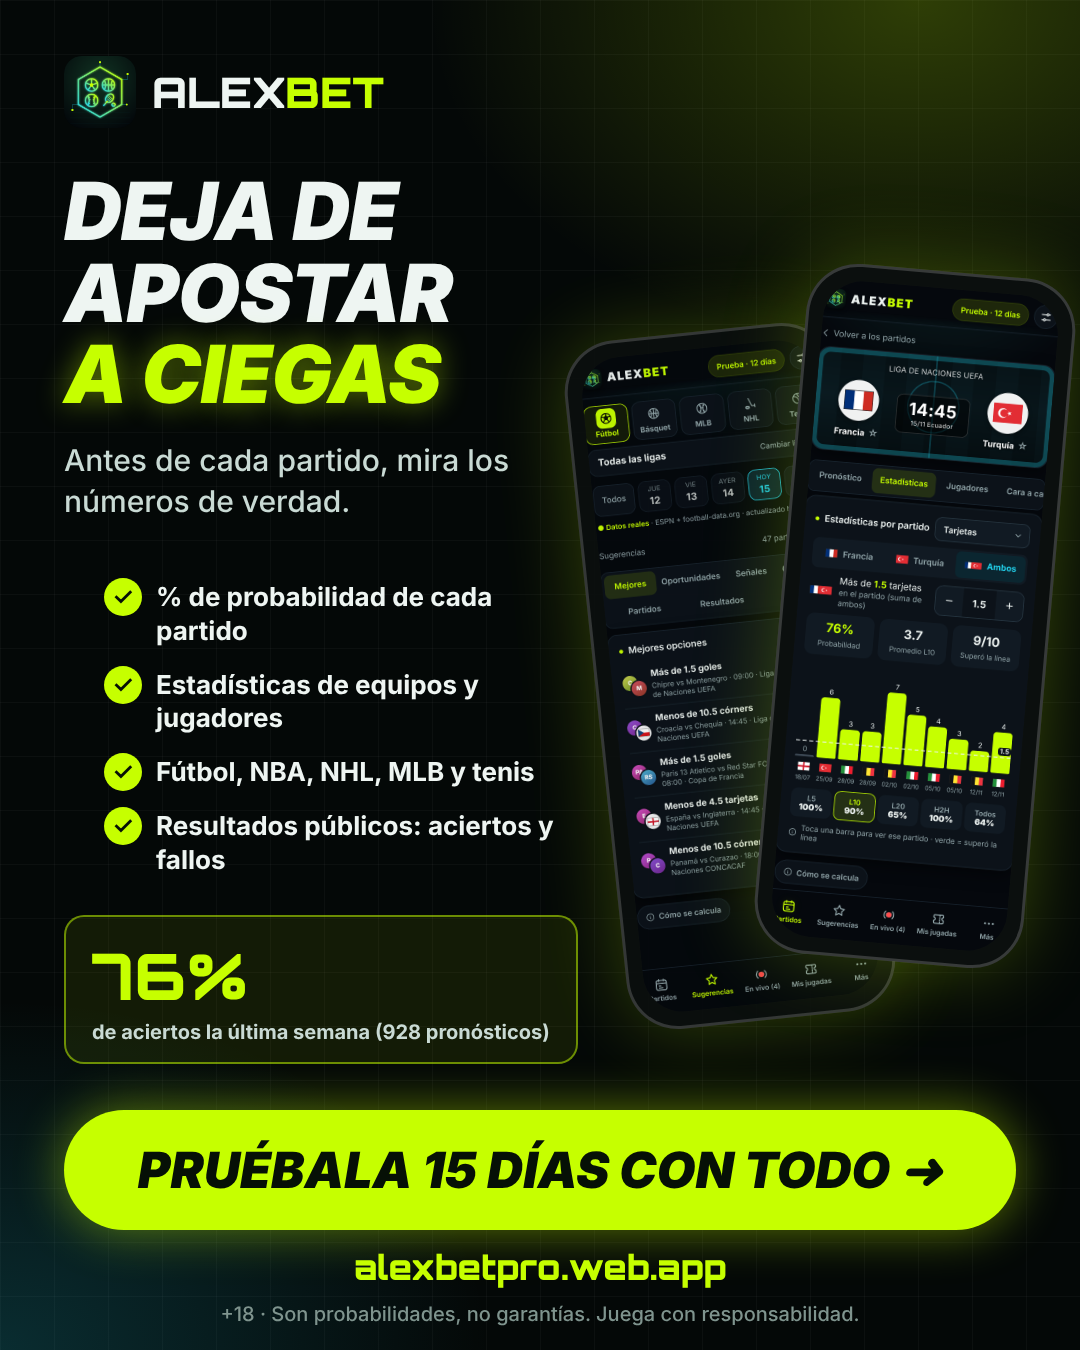
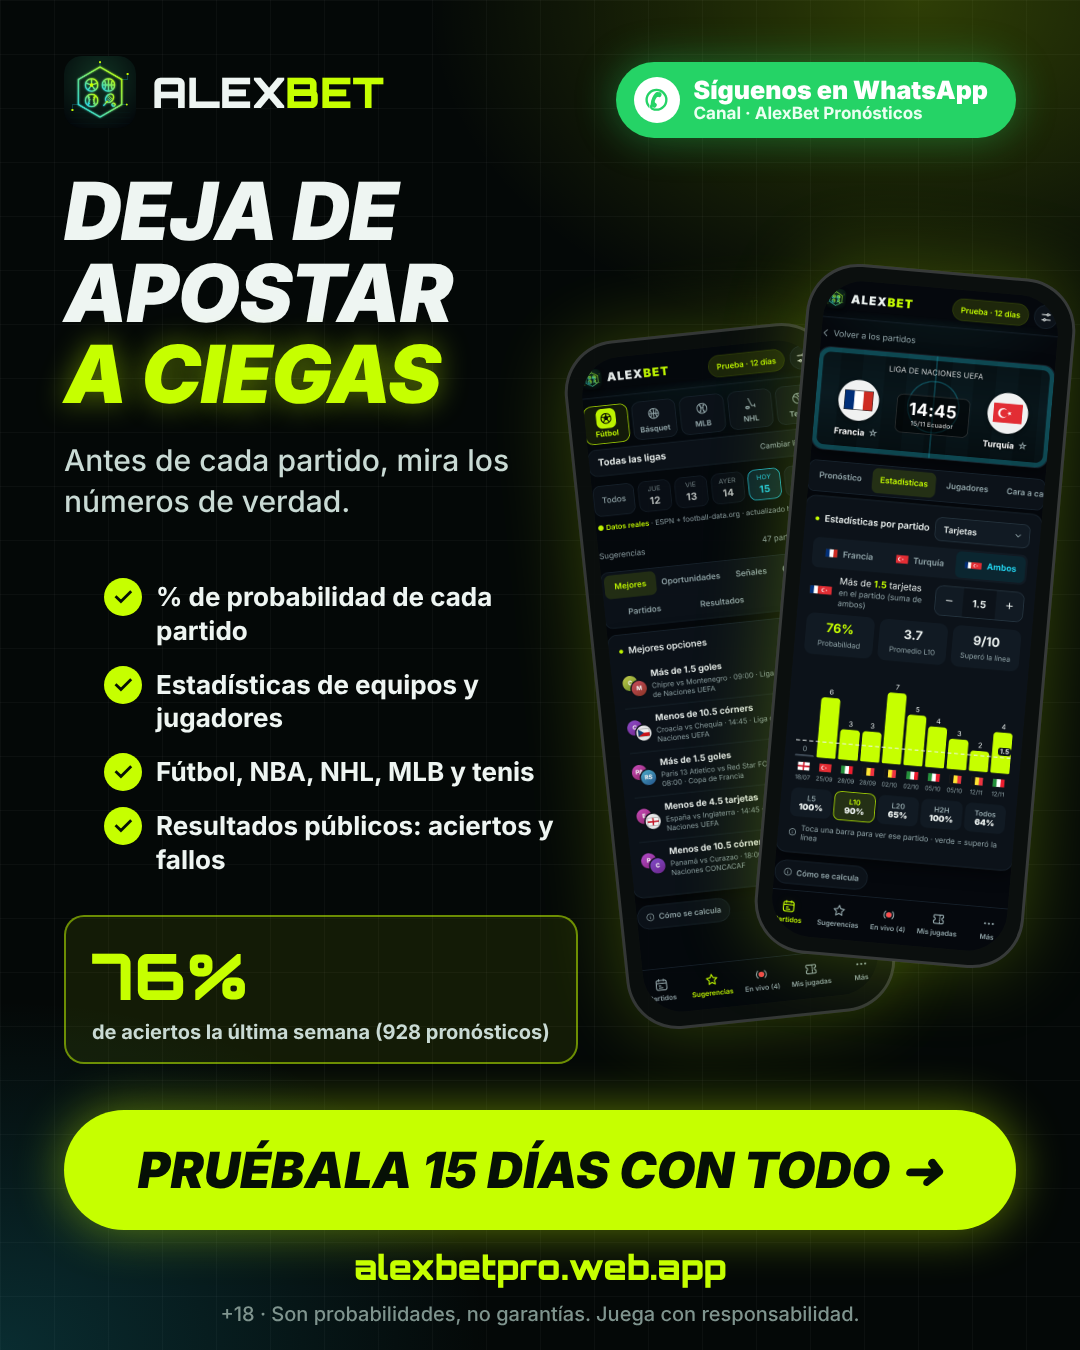
Canal de WhatsApp en el cierre de los 3 videos, en el pie de las imágenes y en la imagen de la promo
Claude-Session: https://claude.ai/code/session_012mWT85TQZDff9ySK822rSA

Changed region(s): [[0.55, 0.0311, 0.9472, 0.1244]]

diff --git a/video.js b/video.js
@@ -296,6 +296,17 @@ function escenaPick(c, S, t, D) {
   pieV(c);
 }
 
+// canal de WhatsApp: una pastilla verde al cierre de cada video
+function waBadge(c, y, k) {
+  if (k <= 0) return; c.save(); c.globalAlpha *= k; c.textAlign = 'center';
+  const W = 760, x = (VW - W) / 2, H = 132; rr(c, x, y, W, H, 66); c.fillStyle = '#25d366'; c.shadowColor = 'rgba(37,211,102,.45)'; c.shadowBlur = 36; c.fill(); c.shadowBlur = 0;
+  const cx = x + 74, cy = y + H / 2; c.beginPath(); c.arc(cx, cy, 40, 0, Math.PI * 2); c.fillStyle = '#fff'; c.fill(); // ícono: globo de chat con teléfono
+  c.beginPath(); c.moveTo(cx - 30, cy + 26); c.lineTo(cx - 40, cy + 42); c.lineTo(cx - 14, cy + 34); c.closePath(); c.fill();
+  c.beginPath(); c.arc(cx, cy, 28, 0, Math.PI * 2); c.fillStyle = '#25d366'; c.fill(); c.font = '900 34px Inter'; c.fillStyle = '#fff'; c.fillText('✆', cx, cy + 12);
+  c.fillStyle = '#fff'; c.font = '900 46px Inter'; c.fillText('Síguenos en WhatsApp', x + W / 2 + 44, y + 62); c.font = '700 30px Inter'; c.fillStyle = '#eafff1'; c.fillText('Canal · AlexBet Pronósticos', x + W / 2 + 44, y + 104);
+  c.restore();
+}
+
 function escenaCierre(c, S, t, D) {
   const a = seg(t, 0, .6), b = seg(t, .5, .7), d = seg(t, 1.1, .7);
   c.globalAlpha = a; const s = 200; if (D.logo) { c.save(); rr(c, VW / 2 - s / 2, 260, s, s, 48); c.clip(); c.drawImage(D.logo, VW / 2 - s / 2, 260, s, s); c.restore(); }
@@ -307,7 +318,7 @@ function escenaCierre(c, S, t, D) {
   }
   c.globalAlpha = d; rr(c, 120, 1180, VW - 240, 150, 75); c.fillStyle = A; c.fill();
   c.font = '900 56px Orbitron'; c.fillStyle = '#061006'; c.fillText('alexbetpro.web.app', VW / 2, 1275);
-  c.font = '700 40px Inter'; c.fillStyle = INK; c.fillText('Síguenos para las de mañana', VW / 2, 1440);
+  c.globalAlpha = 1; waBadge(c, 1365, d); c.globalAlpha = d; c.textAlign = 'center';
   rr(c, VW / 2 - 70, 1540, 140, 80, 18); c.strokeStyle = INK; c.lineWidth = 5; c.stroke(); c.font = '900 44px Orbitron'; c.fillStyle = INK; c.fillText('+18', VW / 2, 1596);
   c.font = '500 32px Inter'; c.fillStyle = DIM; c.fillText('Son probabilidades, no garantías. Juega con responsabilidad.', VW / 2, 1690);
   c.textAlign = 'left'; c.globalAlpha = 1;
@@ -448,6 +459,7 @@ export async function crearAnalisis(ctx) {
       const kb = seg(lt, .9, .5); c.globalAlpha = kb; rr(c, 250, 1090, 580, 120, 60); c.fillStyle = A; c.shadowColor = 'rgba(198,255,0,.5)'; c.shadowBlur = 40; c.fill(); c.shadowBlur = 0;
       c.fillStyle = '#061006'; c.font = '900 44px Inter'; c.textAlign = 'center'; c.fillText('Versión Premium →', 540, 1150); c.font = '700 24px Inter'; c.fillText('este y otros análisis', 540, 1188);
       c.font = '700 40px Orbitron'; c.fillStyle = A; c.fillText('alexbetpro.web.app', 540, 1290); c.font = '600 26px Inter'; c.fillStyle = DIM;
+      c.globalAlpha = 1; waBadge(c, 1400, seg(lt, 1.3, .5)); c.globalAlpha = kb; c.textAlign = 'center'; c.font = '600 26px Inter'; c.fillStyle = DIM;
       c.fillText('+18 · Análisis estadístico, no garantiza resultados.', 540, 1700); c.fillText('Juega con responsabilidad.', 540, 1740); c.textAlign = 'left'; c.globalAlpha = 1; return; }
     const prev = sc[i - 1] && !sc[i - 1].fin && sc[i - 1].img === s.img ? sc[i - 1] : null, kc = prev ? seg(lt, 0, .7) : 1;
     let cam = prev ? lc(prev.cam2 || prev.cam, s.cam, kc) : s.cam; if (s.cam2) cam = lc(s.cam, s.cam2, Math.min(1, lt / s.dur));
@@ -581,7 +593,7 @@ export async function crearRadar(ctx) {
     else { grande(c, 'DONDE HAY DATOS,', 'HAY VENTAJA.', 760, seg(lt, 0, .5), 100); c.save(); c.globalAlpha = seg(lt, .6, .5); c.textAlign = 'center'; c.font = '600 36px Inter'; c.fillStyle = INK;
       c.fillText('Cada jugador, partido a partido,', VW / 2, 1000); c.fillText('en una sola pantalla.', VW / 2, 1048);
       rr(c, 190, 1110, 700, 120, 60); c.fillStyle = A; c.shadowColor = 'rgba(198,255,0,.5)'; c.shadowBlur = 40; c.fill(); c.shadowBlur = 0; c.fillStyle = '#061006'; c.font = 'italic 900 52px Inter'; c.fillText('¡PRUÉBALA AHORA!', VW / 2, 1188);
-      c.font = '700 44px Orbitron'; c.fillStyle = A; c.fillText('alexbetpro.web.app', VW / 2, 1310); c.font = '600 26px Inter'; c.fillStyle = DIM; c.fillText('+18 · Análisis estadístico, no garantiza resultados. Juega con responsabilidad.', VW / 2, 1760); c.restore(); }
+      c.font = '700 44px Orbitron'; c.fillStyle = A; c.fillText('alexbetpro.web.app', VW / 2, 1310); c.font = '600 26px Inter'; c.fillStyle = DIM; c.fillText('+18 · Análisis estadístico, no garantiza resultados. Juega con responsabilidad.', VW / 2, 1760); c.restore(); waBadge(c, 1430, seg(lt, 1, .5)); }
     const f = Math.min(1, lt / .18); if (f < 1 && i > 0) { c.save(); c.globalAlpha = (1 - f) * .8; c.fillStyle = '#ffffff'; c.fillRect(0, 0, VW, VH); c.restore(); } // destello al cambiar
   };
   draw(0); rec.start(1000); const start = ac.currentTime + .25; musica(ac, dest, start, total);

diff --git a/publicar.html b/publicar.html
@@ -85,7 +85,7 @@
 <script type="module">
 import { initializeApp } from 'https://www.gstatic.com/firebasejs/10.12.2/firebase-app.js';
 import { getAuth, onAuthStateChanged, GoogleAuthProvider, signInWithPopup, signOut } from 'https://www.gstatic.com/firebasejs/10.12.2/firebase-auth.js';
-import { Voz, VOCES, vozGuardada, hablar, crearVideo, crearAnalisis, crearRadar, guardadoErr } from './video.js?v=10';
+import { Voz, VOCES, vozGuardada, hablar, crearVideo, crearAnalisis, crearRadar, guardadoErr } from './video.js?v=11';
 
 const ADMIN = 'tomashbasurto@gmail.com';
 const MIRROR = 'https://tomashbasurto.github.io/alexbet-web/';
@@ -345,7 +345,7 @@ function pintar(){
       ${vidHTML('Radar')}
     </div>` : ''}
     <div class="prev" id="prev"></div>
-    <button class="btn ghost" id="out">Cerrar sesión</button><div class="note" style="text-align:center;margin-top:8px">Panel v51.3</div>`;
+    <button class="btn ghost" id="out">Cerrar sesión</button><div class="note" style="text-align:center;margin-top:8px">Panel v51.4</div>`;
   fbBox();
   const anaPide = solo => { const p = anaP; if(p && confirm(`¿Armar el video análisis de:\n${p.label} · ${p.h} vs ${p.a}${solo ? '\n\n(queda aquí para compartir, no se publica)' : '\n\ny publicarlo en Facebook?'}`)) fbSet({ya: 'ana:sel', yaT: Date.now(), anaSel: anaSpec(p), soloDesc: solo}); };
   if($('anaGo')) $('anaGo').onclick = () => anaPide(false);
@@ -444,13 +444,20 @@ async function cabecera(c, t1, t2, sub){
   c.fillStyle = A; c.fillText(t2, 60, 308);
 }
 function pie(c){
-  rr(c, 60, H-150, 470, 104, 22); c.fillStyle = A; c.fill();
-  c.fillStyle = '#061006'; c.font = '900 31px Orbitron'; c.fillText('alexbetpro.web.app', 88, H-96);
-  c.font = '600 18px Inter'; c.fillStyle = '#21330a'; c.fillText('Prueba gratis 15 días · análisis de cada partido', 88, H-66);
+  rr(c, 60, H-150, 418, 104, 22); c.fillStyle = A; c.fill();
+  c.fillStyle = '#061006'; c.font = '900 29px Orbitron'; c.fillText('alexbetpro.web.app', 82, H-96);
+  c.font = '600 18px Inter'; c.fillStyle = '#21330a'; c.fillText('Prueba gratis 15 días', 82, H-66);
+  // canal de WhatsApp
+  rr(c, 492, H-150, 248, 104, 22); c.fillStyle = '#25d366'; c.fill();
+  const wx = 532, wy = H-98; c.fillStyle = '#fff'; c.beginPath(); c.arc(wx, wy, 24, 0, Math.PI*2); c.fill();
+  c.beginPath(); c.moveTo(wx-18, wy+15); c.lineTo(wx-25, wy+26); c.lineTo(wx-8, wy+21); c.closePath(); c.fill();
+  c.beginPath(); c.arc(wx, wy, 17, 0, Math.PI*2); c.fillStyle = '#25d366'; c.fill(); c.fillStyle = '#fff'; c.font = '900 21px Inter'; c.textAlign = 'center'; c.fillText('✆', wx, wy+7); c.textAlign = 'left';
+  c.fillStyle = '#fff'; c.font = '800 19px Inter'; c.fillText('Síguenos en', 570, H-110); c.font = '900 27px Inter'; c.fillText('WhatsApp', 570, H-80);
+  c.font = '600 15px Inter'; c.fillStyle = '#eafff1'; c.fillText('AlexBet Pronósticos', 570, H-58);
   c.textAlign = 'right';
   c.strokeStyle = INK; c.lineWidth = 2.5; rr(c, W-60-74, H-150, 74, 44, 10); c.stroke();
   c.fillStyle = INK; c.font = '900 25px Orbitron'; c.textAlign = 'center'; c.fillText('+18', W-60-37, H-118); c.textAlign = 'right';
-  c.font = '500 18px Inter'; c.fillStyle = DIM; c.fillText('Son probabilidades, no garantías.', W-60, H-74); c.fillText('Juega con responsabilidad.', W-60, H-48);
+  c.font = '500 16px Inter'; c.fillStyle = DIM; c.fillText('Son probabilidades,', W-60, H-82); c.fillText('no garantías.', W-60, H-62); c.fillText('Juega con responsabilidad.', W-60, H-42);
   c.textAlign = 'left';
 }
 async function fila(c, p, y, h, res){
